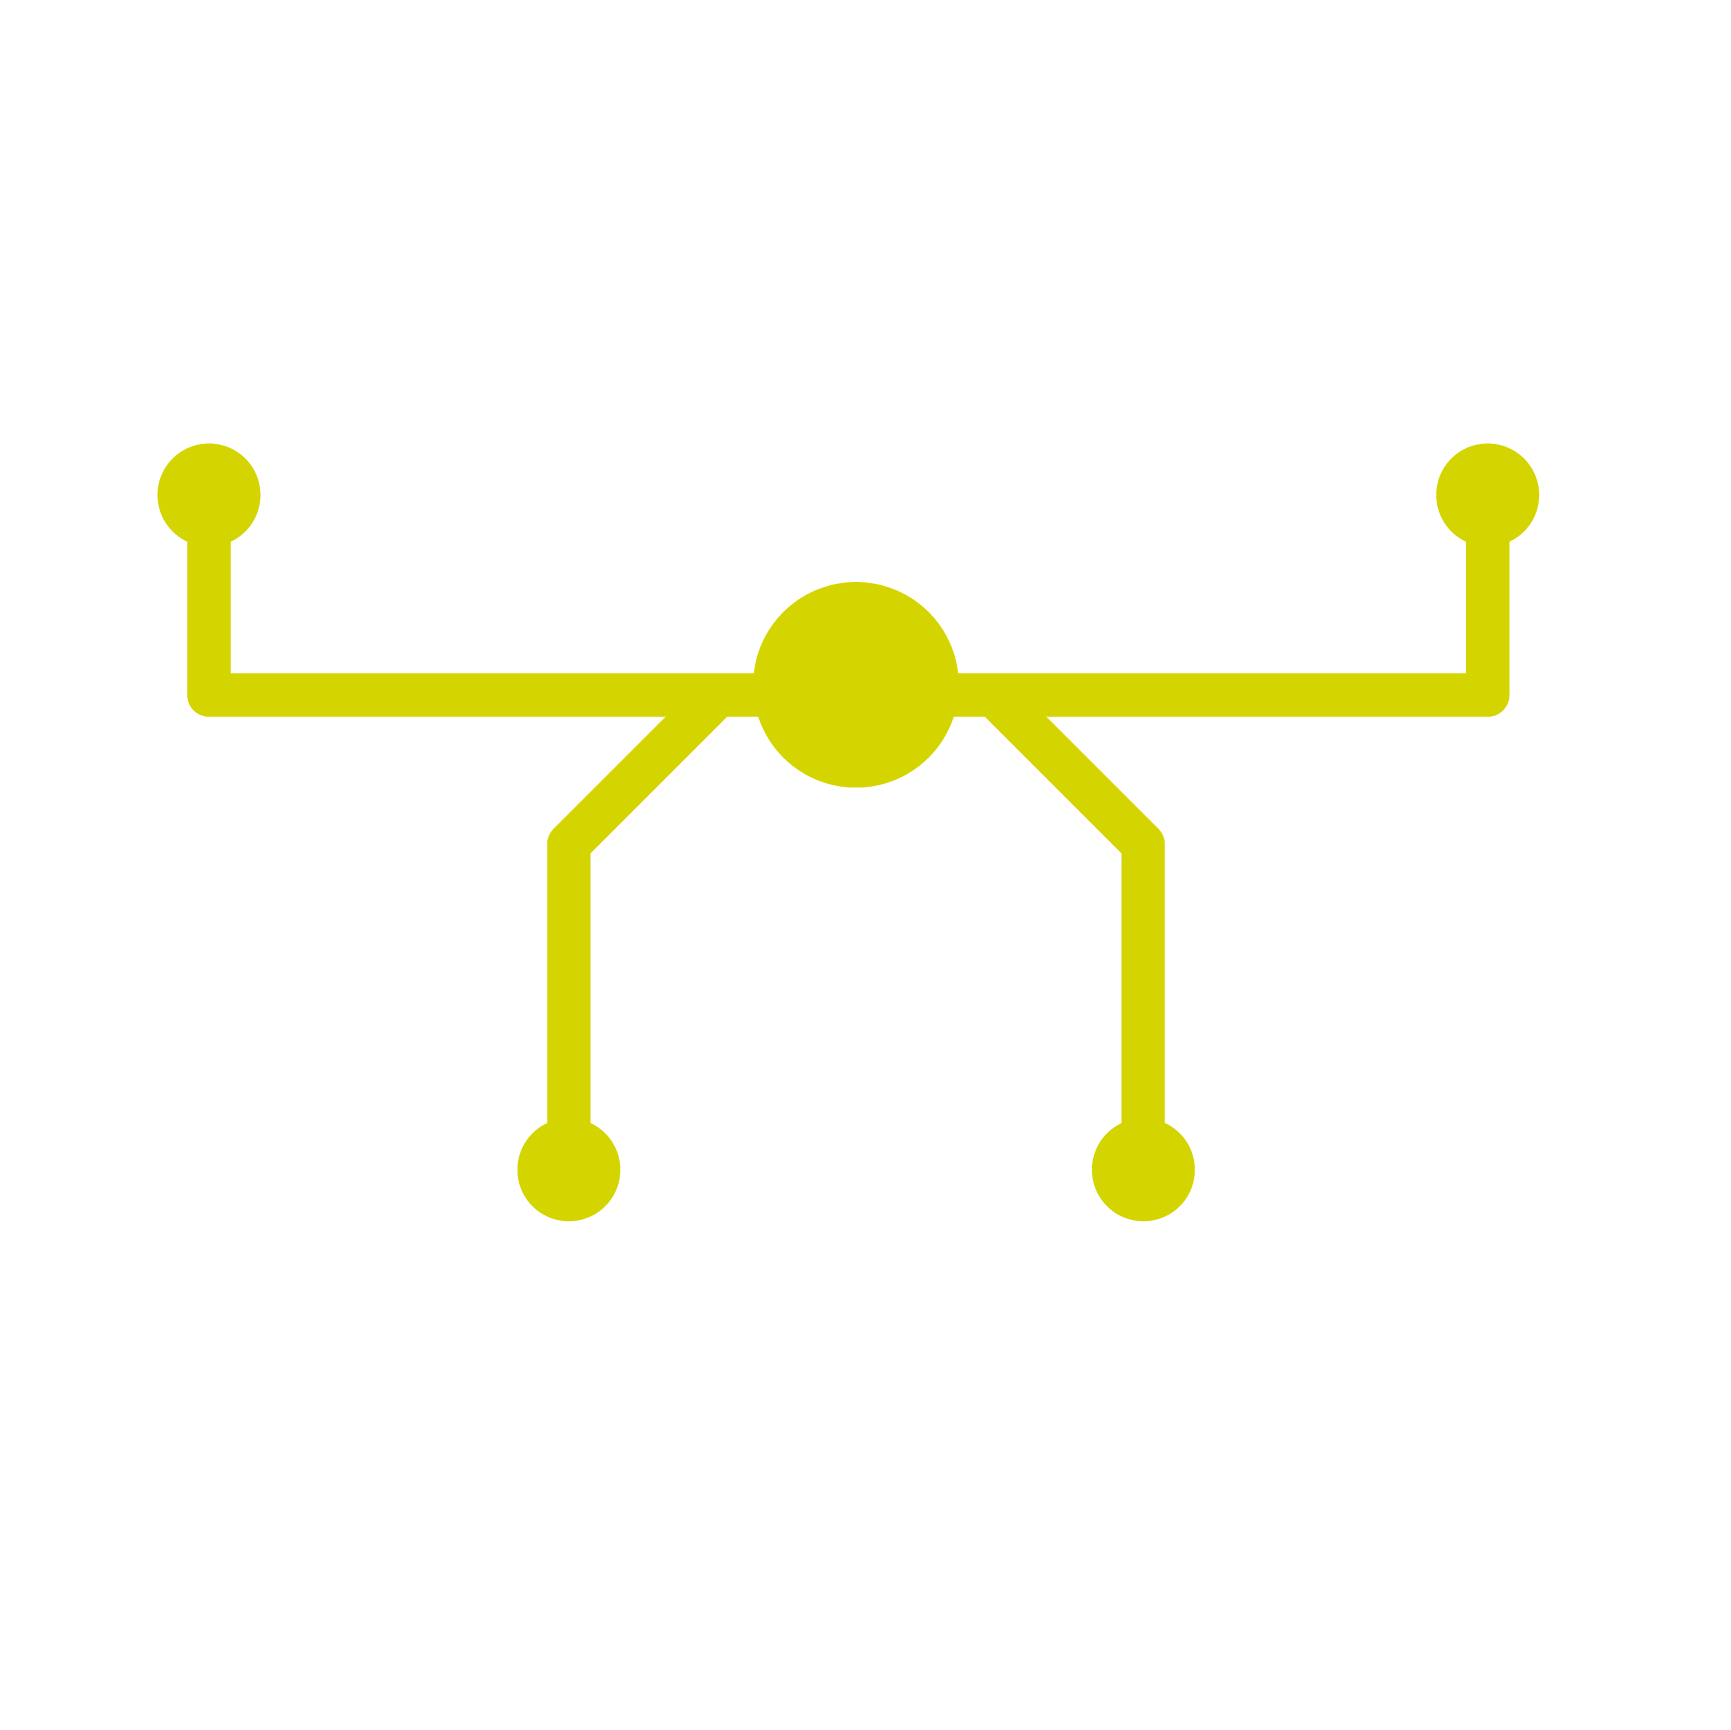
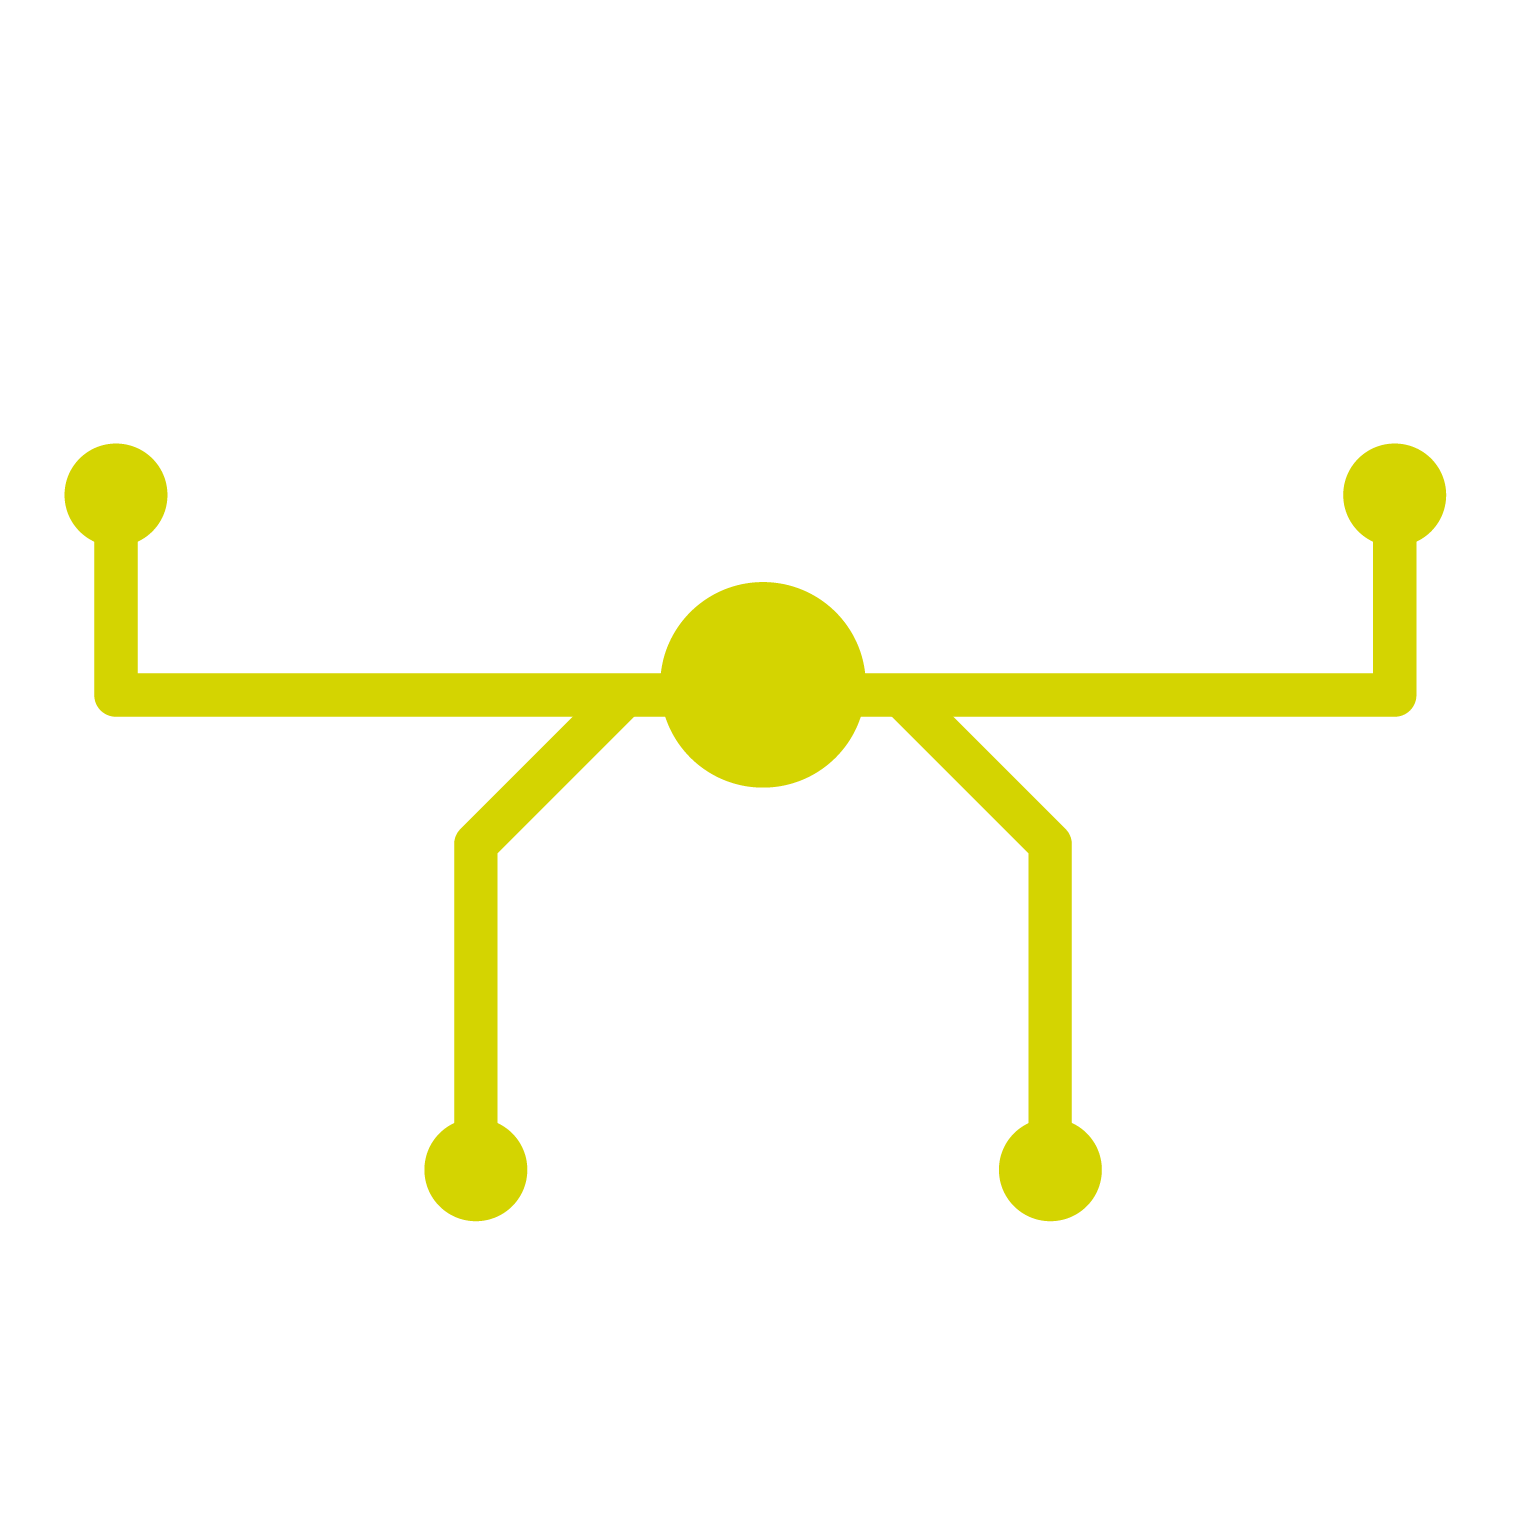
cambios

Changed region(s): [[0.0312, 0.2467, 0.9351, 0.8018]]

diff --git a/src/pages/Mainpage.jsx b/src/pages/Mainpage.jsx
@@ -2,8 +2,8 @@ import React from 'react'
 import { Nav } from '../components'
 import { productos } from '../assets/constants/constants'
 import image1 from '../assets/images/icono-pasturometro2.png'
-import image2 from '../assets/images/icono-satelite.png'
-import image3 from '../assets/images/icono-dron.png'
+import image2 from '../assets/images/icono-satelite2.png'
+import image3 from '../assets/images/icono-dron2.png'
 import { Landing,SectionCircular,SectionCircular2 } from '../sections'
 
 
